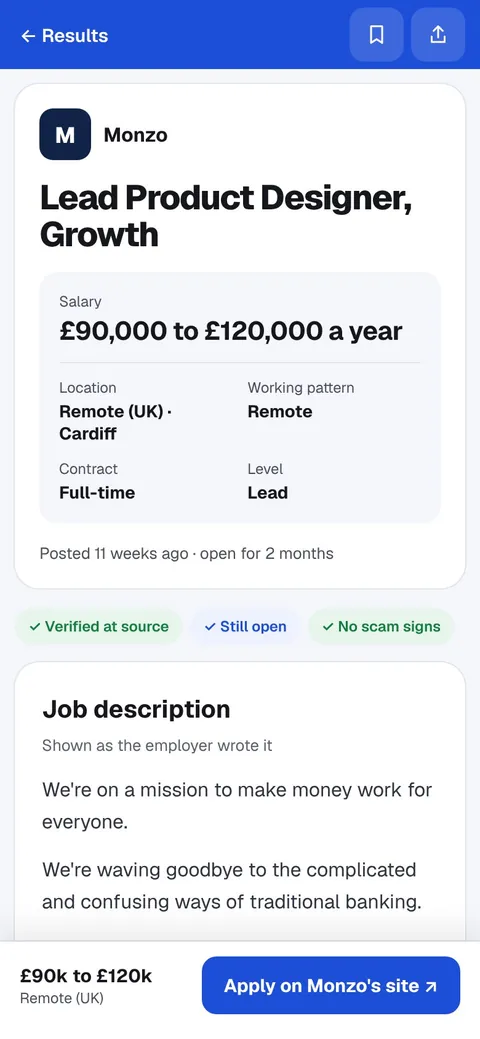
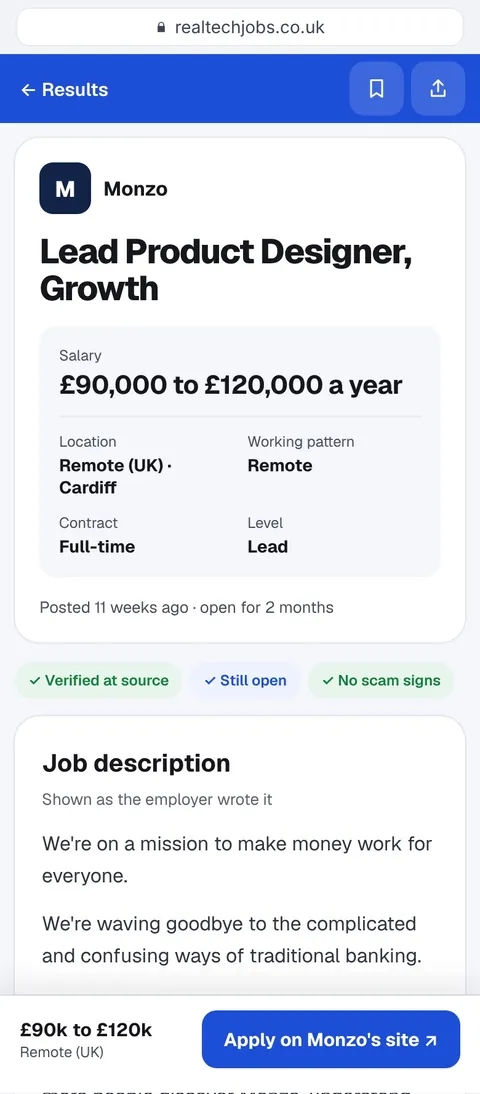
Show RealTechJobs in a phone browser on its card, with new alt text

diff --git a/src/lib/images.generated.ts b/src/lib/images.generated.ts
@@ -33,7 +33,7 @@ export const IMAGES: Record<string, { width: number; height: number; widths: num
 	},
 	"rtj-phone-job": {
 		"width": 780,
-		"height": 1688,
+		"height": 1778,
 		"widths": [
 			480,
 			780
